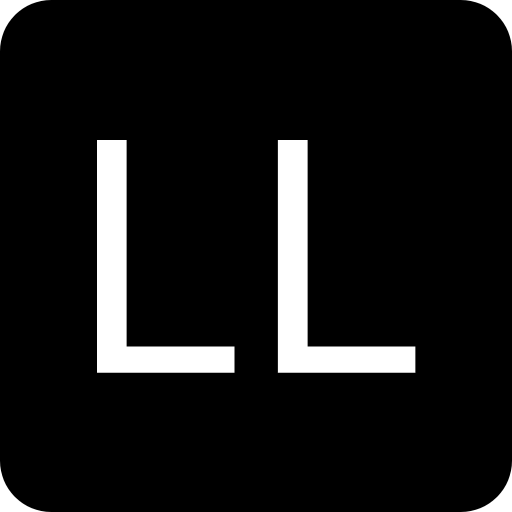
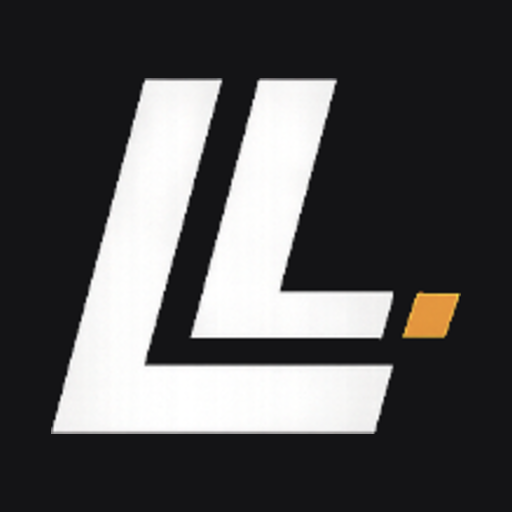
Add LL brand mark and order-aware notes sorting
Logos & favicons
- New light.png/dark.png navbar logos, swap via Tailwind dark:
- Theme-aware favicons via prefers-color-scheme media queries
- Regenerate PWA icons (apple-touch, android-chrome 192/512)
- Remove orphaned favicon.png and legacy browserconfig.xml

Notes
- Add order frontmatter to override alphabetical sort
- Order PWPA recon: Fingerprinting (1), Directory (2), Subdomain (3)
- Expand subdomain note with assetfinder, amass, httprobe, gowitness

diff --git a/src/lib/notes-mdx.ts b/src/lib/notes-mdx.ts
@@ -10,6 +10,7 @@ export interface NoteFile {
   slug: string;
   title: string;
   source?: string;
+  order?: number;
   body: string;
 }
 
@@ -22,6 +23,7 @@ export interface NoteSection {
 interface Frontmatter {
   title?: string;
   source?: string;
+  order?: number;
 }
 
 function readNote(repo: string, section: string, file: string): NoteFile | null {
@@ -37,6 +39,7 @@ function readNote(repo: string, section: string, file: string): NoteFile | null 
     slug,
     title: fm.title ?? slug,
     source: fm.source,
+    order: fm.order,
     body: content,
   };
 }
@@ -67,7 +70,12 @@ export function getNotesInSection(repo: string, section: string): NoteFile[] {
     .filter((f) => /\.mdx?$/.test(f))
     .map((f) => readNote(repo, section, f))
     .filter((n): n is NoteFile => n !== null)
-    .sort((a, b) => a.title.localeCompare(b.title));
+    .sort((a, b) => {
+      const ao = a.order ?? Number.POSITIVE_INFINITY;
+      const bo = b.order ?? Number.POSITIVE_INFINITY;
+      if (ao !== bo) return ao - bo;
+      return a.title.localeCompare(b.title);
+    });
 }
 
 export function getNote(

diff --git a/src/app/layout.tsx b/src/app/layout.tsx
@@ -113,14 +113,31 @@ export default async function RootLayout({ children }: { children: ReactNode }) 
           rel="icon"
           type="image/png"
           sizes="32x32"
+          href="/favicon-light-32x32.png"
+          media="(prefers-color-scheme: light)"
+        />
+        <link
+          rel="icon"
+          type="image/png"
+          sizes="16x16"
+          href="/favicon-light-16x16.png"
+          media="(prefers-color-scheme: light)"
+        />
+        <link
+          rel="icon"
+          type="image/png"
+          sizes="32x32"
           href="/favicon-32x32.png"
+          media="(prefers-color-scheme: dark)"
         />
         <link
           rel="icon"
           type="image/png"
           sizes="16x16"
           href="/favicon-16x16.png"
+          media="(prefers-color-scheme: dark)"
         />
+        <link rel="icon" href="/favicon.ico" sizes="any" />
         <link rel="manifest" href="/site.webmanifest" />
         <meta name="theme-color" content="#1f2937" />
         <meta name="msapplication-TileColor" content="#1f2937" />

diff --git a/src/components/Navbar.tsx b/src/components/Navbar.tsx
@@ -115,12 +115,20 @@ export default function Navbar() {
           className="cursor-pointer hover:scale-105 transition-transform duration-300 shrink-0 block"
         >
           <Image
-            src="/favicon.png"
+            src="/light.png"
             alt="Luis Javier Lozoya Portfolio Logo"
-            width={32}
-            height={32}
+            width={115}
+            height={82}
             priority
-            className="rounded-full border-2 border-gray-200 dark:border-gray-700"
+            className="block dark:hidden h-11 w-auto"
+          />
+          <Image
+            src="/dark.png"
+            alt="Luis Javier Lozoya Portfolio Logo"
+            width={153}
+            height={149}
+            priority
+            className="hidden dark:block h-11 w-auto"
           />
         </Link>
 

diff --git a/content/notes/tcm-pwpa-notes/01-recon/subdomain-enumeration.md b/content/notes/tcm-pwpa-notes/01-recon/subdomain-enumeration.md
@@ -1,0 +1,119 @@
+---
+title: "Subdomain Enumeration"
+order: 3
+source: "https://github.com/Javierlozo/tcm-pwpa-notes/blob/main/01-recon/subdomain-enumeration.md"
+---
+
+# Subdomain Enumeration
+
+The main site is usually the part with the most eyes on it. The real wins tend to be on subdomains nobody is watching: a forgotten dev box, an old admin panel, a staging environment with weak auth. So before I poke at the main app I try to map out every subdomain I can find.
+
+## Google dorking
+
+Quick and passive. I just open Google and type:
+
+```
+site:azena.com -www -store
+```
+
+`site:` limits results to that domain. The minus operator drops noise I don't care about (the main `www`, and the `store` subdomain in this case). Whatever Google has indexed across the rest of the subdomains shows up.
+
+I keep stripping known subdomains off with more `-foo` filters until what's left is interesting. Usually pulls up blogs, support portals, marketing pages, sometimes an old subdomain the SEO team forgot about.
+
+## crt.sh
+
+Certificate Transparency logs. Every time a public CA issues a cert, it gets logged. That log is public and searchable.
+
+Go to `crt.sh`, search:
+
+```
+%.azena.com
+```
+
+`%` is a SQL wildcard, so this returns every cert ever issued for anything under `azena.com`. It gives a ton of subdomains based on certificate IDs.
+
+Why this is good: nothing touches the target. I'm reading public CT logs, the target has no idea I looked. And it picks up internal-sounding hosts that never appear on the public site, because at some point somebody put TLS on them.
+
+I usually pipe the raw output through `sort -u` to dedupe and to strip out wildcard entries (`*.azena.com`).
+
+## subfinder
+
+When I want to combine a bunch of passive sources in one shot, subfinder is what I reach for. It queries crt.sh, VirusTotal, SecurityTrails, AlienVault and a stack of others, then gives me one merged list.
+
+Basic run:
+
+```
+subfinder -d azena.com
+```
+
+Save it to a file so I can feed it into the next tool:
+
+```
+subfinder -d azena.com -o azena
+```
+
+`-d` is the target domain. `-o` is the output file.
+
+Once I have the list, I resolve each entry (only the ones that actually resolve are worth probing) and feed it into `httpx` to see which ones are alive on HTTP/HTTPS.
+
+## assetfinder
+
+Another passive source. Pulls subdomains from a different mix of feeds than subfinder, so I run both and merge. The catch: it returns a bunch of junk too (other domains that mention the target, related orgs, etc.), so I filter to just the target.
+
+```
+assetfinder azena.com | grep azena.com | sort -u > azena2.txt
+```
+
+`grep azena.com` keeps only the rows actually under the target domain. `sort -u` dedupes.
+
+## amass
+
+Heavier, more thorough, slower. Combines passive sources with optional active brute-forcing. Worth running but expect it to take a while, so I kick it off and let it run in the background.
+
+```
+amass enum -d azena.com > azena3.txt
+```
+
+## Merging the lists
+
+Once I have outputs from subfinder (`azena`), assetfinder (`azena2.txt`), and amass (`azena3.txt`), I merge them into a single deduped file:
+
+```
+cat azena | sort -u > azenasorted.txt
+cat azenasorted.txt >> azena2.txt
+cat azena2.txt | sort -u > azenafinal.txt
+```
+
+`azenafinal.txt` is the working list.
+
+## httprobe — which ones are alive?
+
+A subdomain that resolves isn't necessarily serving anything. `httprobe` reads a list, hits each one over HTTP and HTTPS, and prints back the ones that respond.
+
+```
+cat azenafinal.txt | grep azena.com | sort -u | httprobe -prefer-https | grep https > azenaalive.txt
+```
+
+`-prefer-https` makes it try HTTPS first and skip the HTTP version if HTTPS already answers. The trailing `grep https` keeps only the HTTPS hits in the final file.
+
+## gowitness — screenshot the live ones
+
+When the alive list gets long, eyeballing every subdomain in a browser takes forever. `gowitness` takes a list of URLs and screenshots each one. Quick visual triage — login portals, default pages, broken stuff, interesting admin panels all jump out at a glance.
+
+```
+gowitness file -f azenaalive.txt -P azenapics/ --no-http
+```
+
+`-f` is the input file, `-P` is the directory to dump screenshots into, `--no-http` skips the HTTP variants since httprobe already gave me the HTTPS ones.
+
+## My order
+
+1. Google dorking for a quick read on what the target advertises publicly.
+2. `crt.sh` with `%.domain.tld` to mine certs.
+3. `subfinder`, `assetfinder`, and `amass` in parallel for the merged passive pass.
+4. Concatenate + `sort -u` into one final list.
+5. `httprobe` to keep only the live ones.
+6. `gowitness` to screenshot them all and triage visually.
+7. Anything that looks like staging, dev, admin, internal, or old goes to the top of my list.
+
+Passive sources first. Active subdomain bruteforcing (`ffuf` against a DNS wordlist, etc.) only after I've confirmed scope.

diff --git a/content/notes/tcm-pwpa-notes/01-recon/fingerprinting-web-technologies.md b/content/notes/tcm-pwpa-notes/01-recon/fingerprinting-web-technologies.md
@@ -1,5 +1,6 @@
 ---
 title: "Fingerprinting Web Technologies"
+order: 1
 source: "https://github.com/Javierlozo/tcm-pwpa-notes/blob/main/01-recon/fingerprinting-web-technologies.md"
 ---
 

diff --git a/content/notes/tcm-pwpa-notes/01-recon/directory-enumeration.md b/content/notes/tcm-pwpa-notes/01-recon/directory-enumeration.md
@@ -1,5 +1,6 @@
 ---
 title: "Directory Enumeration and Brute Forcing"
+order: 2
 source: "https://github.com/Javierlozo/tcm-pwpa-notes/blob/main/01-recon/directory-enumeration.md"
 ---
 
